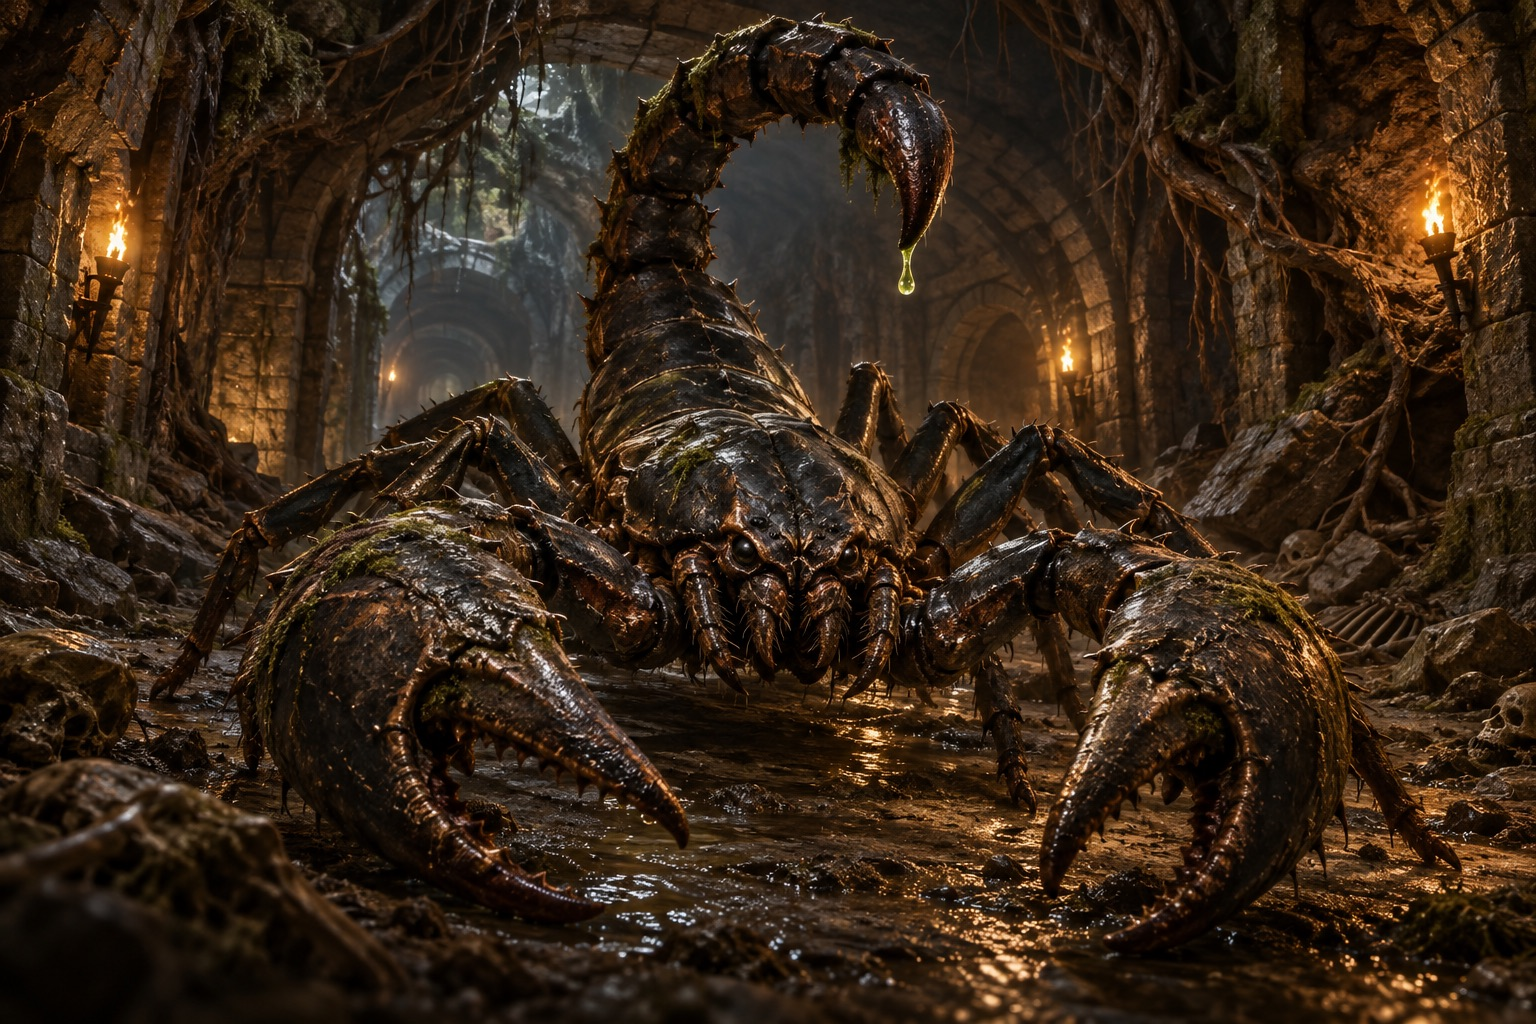
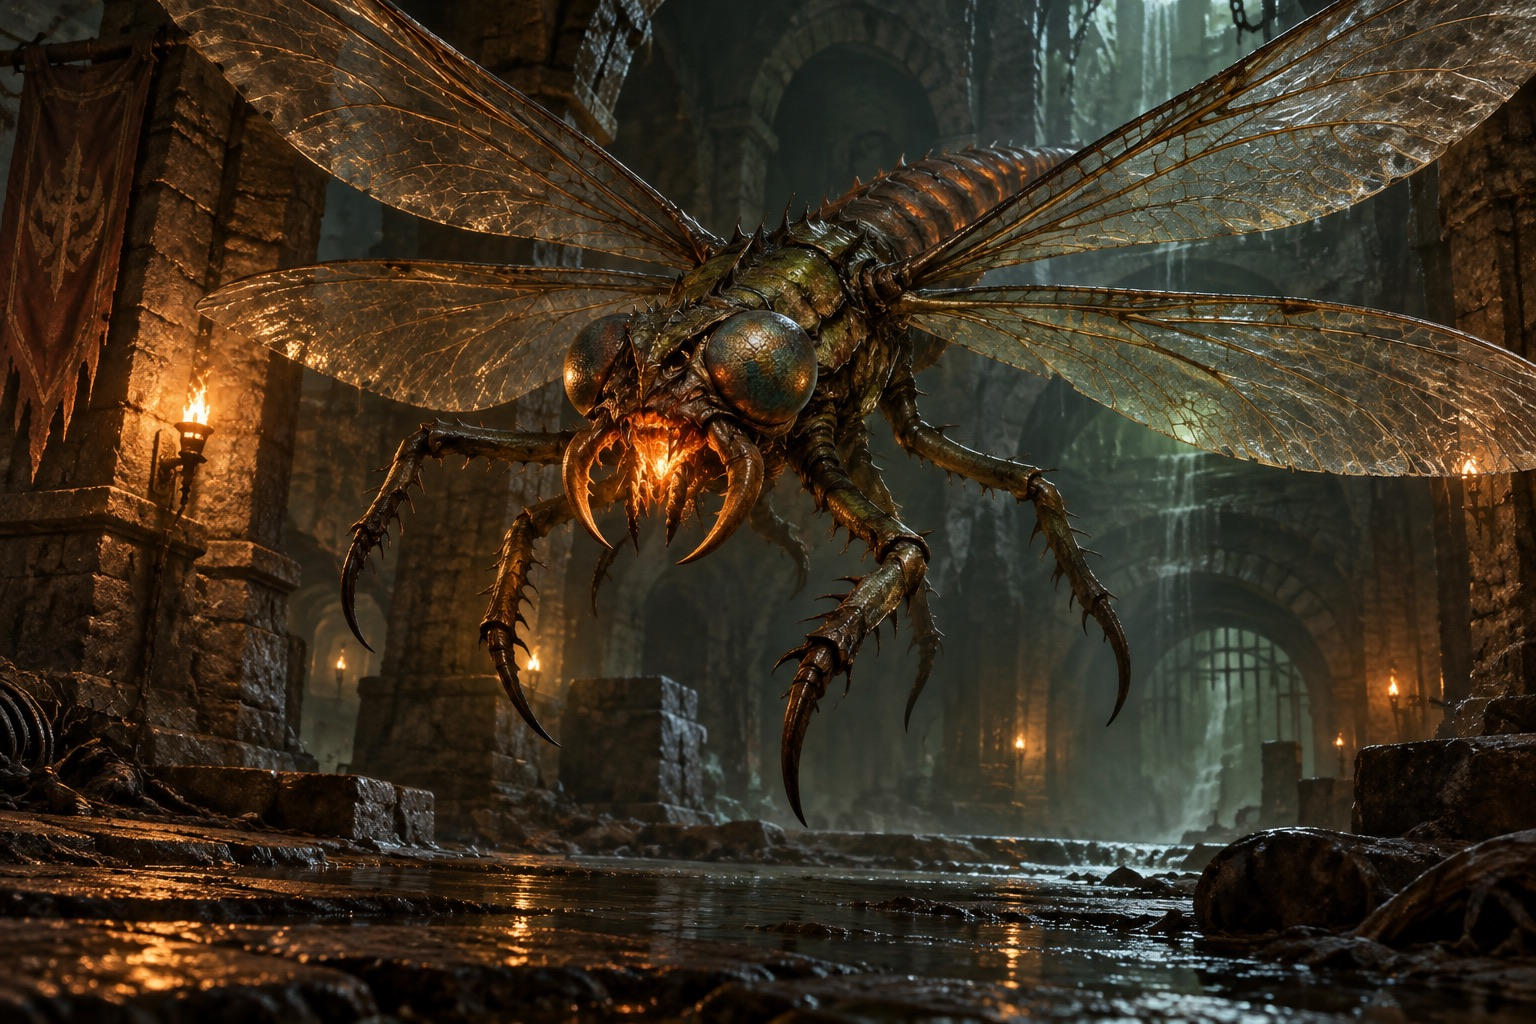
Replace shared insect and Magistrate encounter art

diff --git a/test/encounter-art.js b/test/encounter-art.js
@@ -31,6 +31,10 @@ c.assert(g.get('Render.encounterArt({name:"Gruzzik",base:"Iron Ghoul"},8)')==="a
 c.assert(g.get('Render.encounterArt({name:"Feral Ghoul"},8)')==="assets/monsters/ghoul.jpg","ordinary ghouls have their own illustration");
 c.assert(g.get('Render.encounterArt({name:"Death Priest"},8)')==="assets/monsters/priest.jpg","death priests resolve to cleric artwork");
 c.assert(g.get('Render.encounterArt({name:"Venomous Mage"},8)')==="assets/monsters/mage.jpg","venomous mages resolve to spellcaster artwork");
+c.assert(g.get('Render.encounterArt({name:"Huge Spider"},8)')==="assets/monsters/spider.jpg","spiders resolve to spider artwork");
+c.assert(g.get('Render.encounterArt({name:"Boring Beetle"},8)')==="assets/monsters/beetle.jpg","beetles resolve to beetle artwork");
+c.assert(g.get('Render.encounterArt({name:"Dragon Fly"},8)')==="assets/monsters/dragon-fly.jpg","dragon flies resolve to dragonfly artwork");
+c.assert(g.get('Render.encounterArt({id:"WARDEN13",name:"The Magistrate Below"},13)')==="assets/monsters/warden13.jpg","Magistrate has bespoke warden artwork");
 c.assert(!require("fs").readFileSync("assets/monsters/priest.jpg").equals(require("fs").readFileSync("assets/monsters/rogue.jpg")),"priest art is distinct from rogue art");
 c.assert(!require("fs").readFileSync("assets/monsters/mage.jpg").equals(require("fs").readFileSync("assets/monsters/rogue.jpg")),"mage art is distinct from rogue art");
 g.run('Render.monsterBox({id:"D8M0",name:"Dire Hound",art:"beast"},3,{floor:8})');

diff --git a/js/render.js b/js/render.js
@@ -279,6 +279,7 @@ const Render = (() => {
     ["ogre","ogre"], ["troll","troll"], ["minotaur","minotaur"], ["golem","golem"],
     ["stalker","stalker"], ["hound","hound"], ["ghoul","ghoul"], ["marauder","rogue"],
     ["warlock","mage"], ["hexer","mage"], ["mage","mage"], ["cultist","priest"], ["acolyte","priest"], ["priest","priest"],
+    ["spider","spider"], ["beetle","beetle"], ["dragon fly","dragon-fly"], ["dragonfly","dragon-fly"],
     ["drake","drake"], ["salamander","salamander"], ["wyrm","wyrm"],
     ["wight","wight"], ["revenant","revenant"], ["scorpion","scorpion"], ["widow","spider"],
   ];
